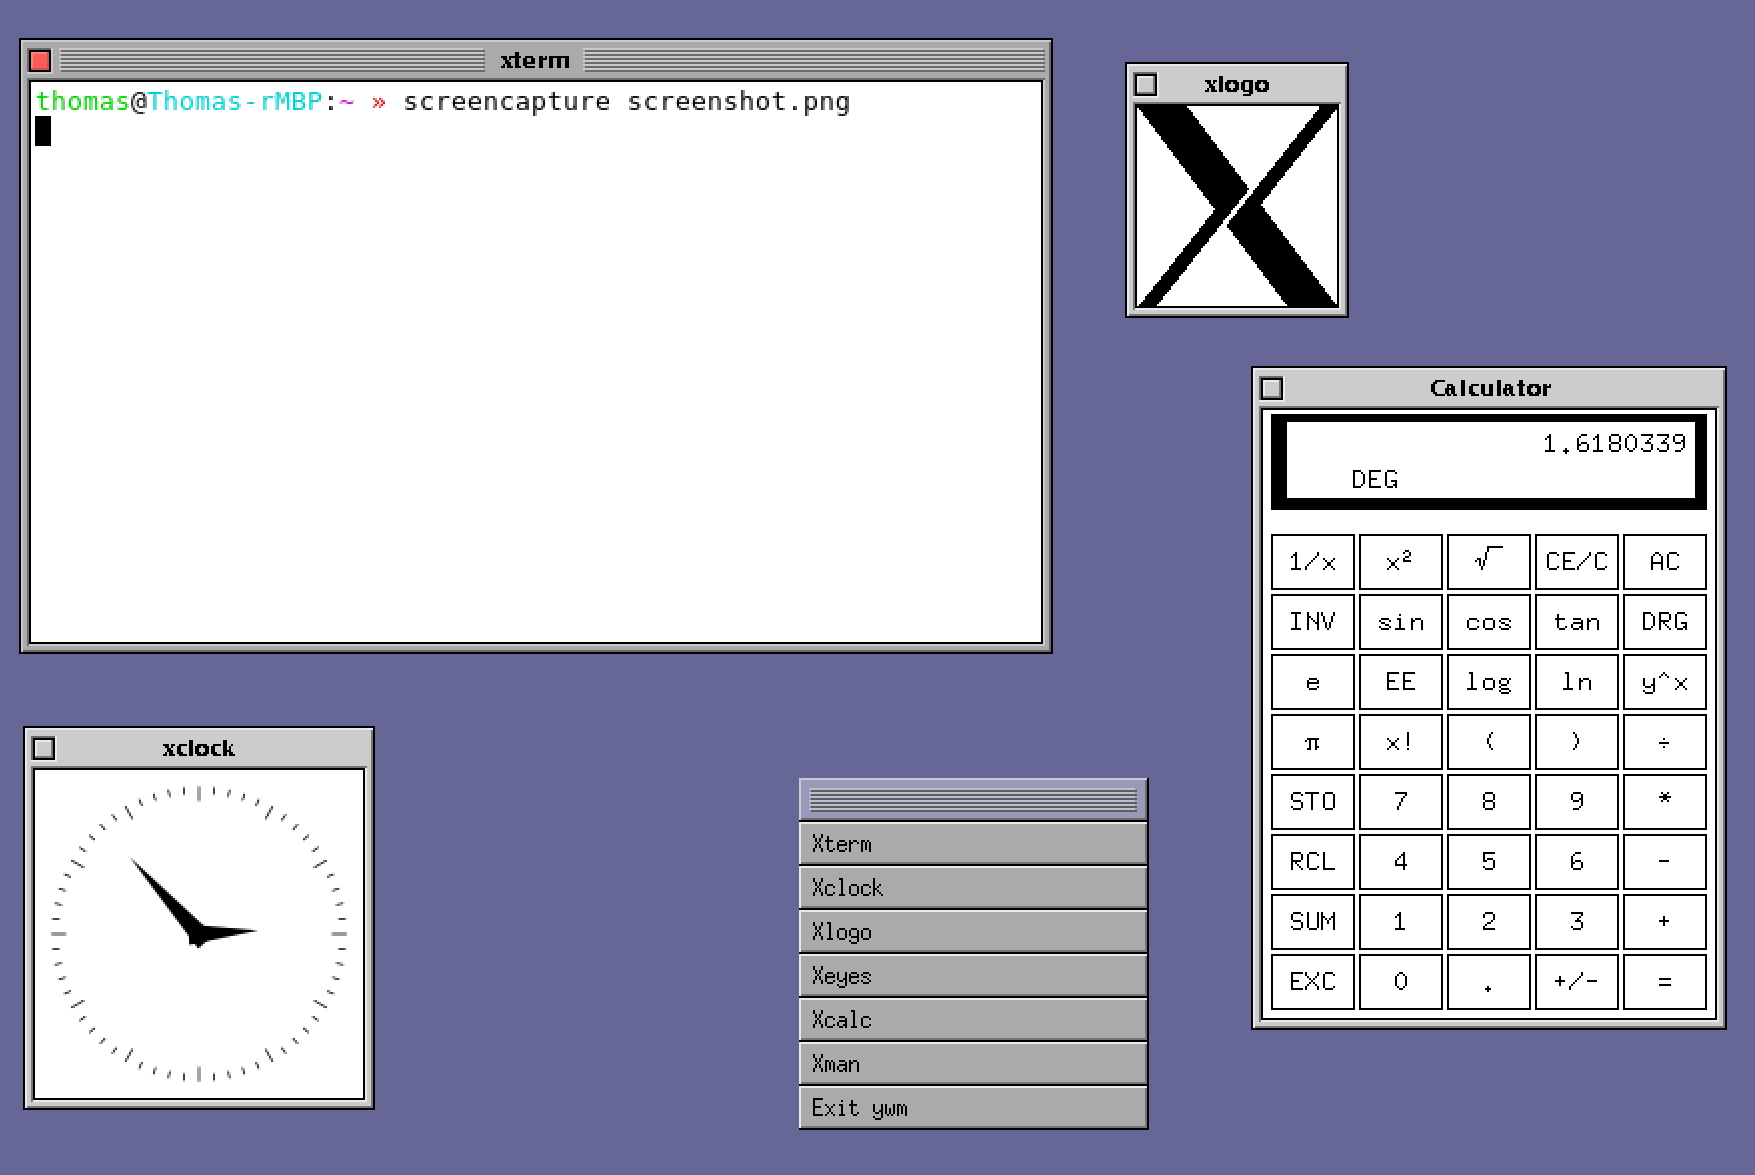
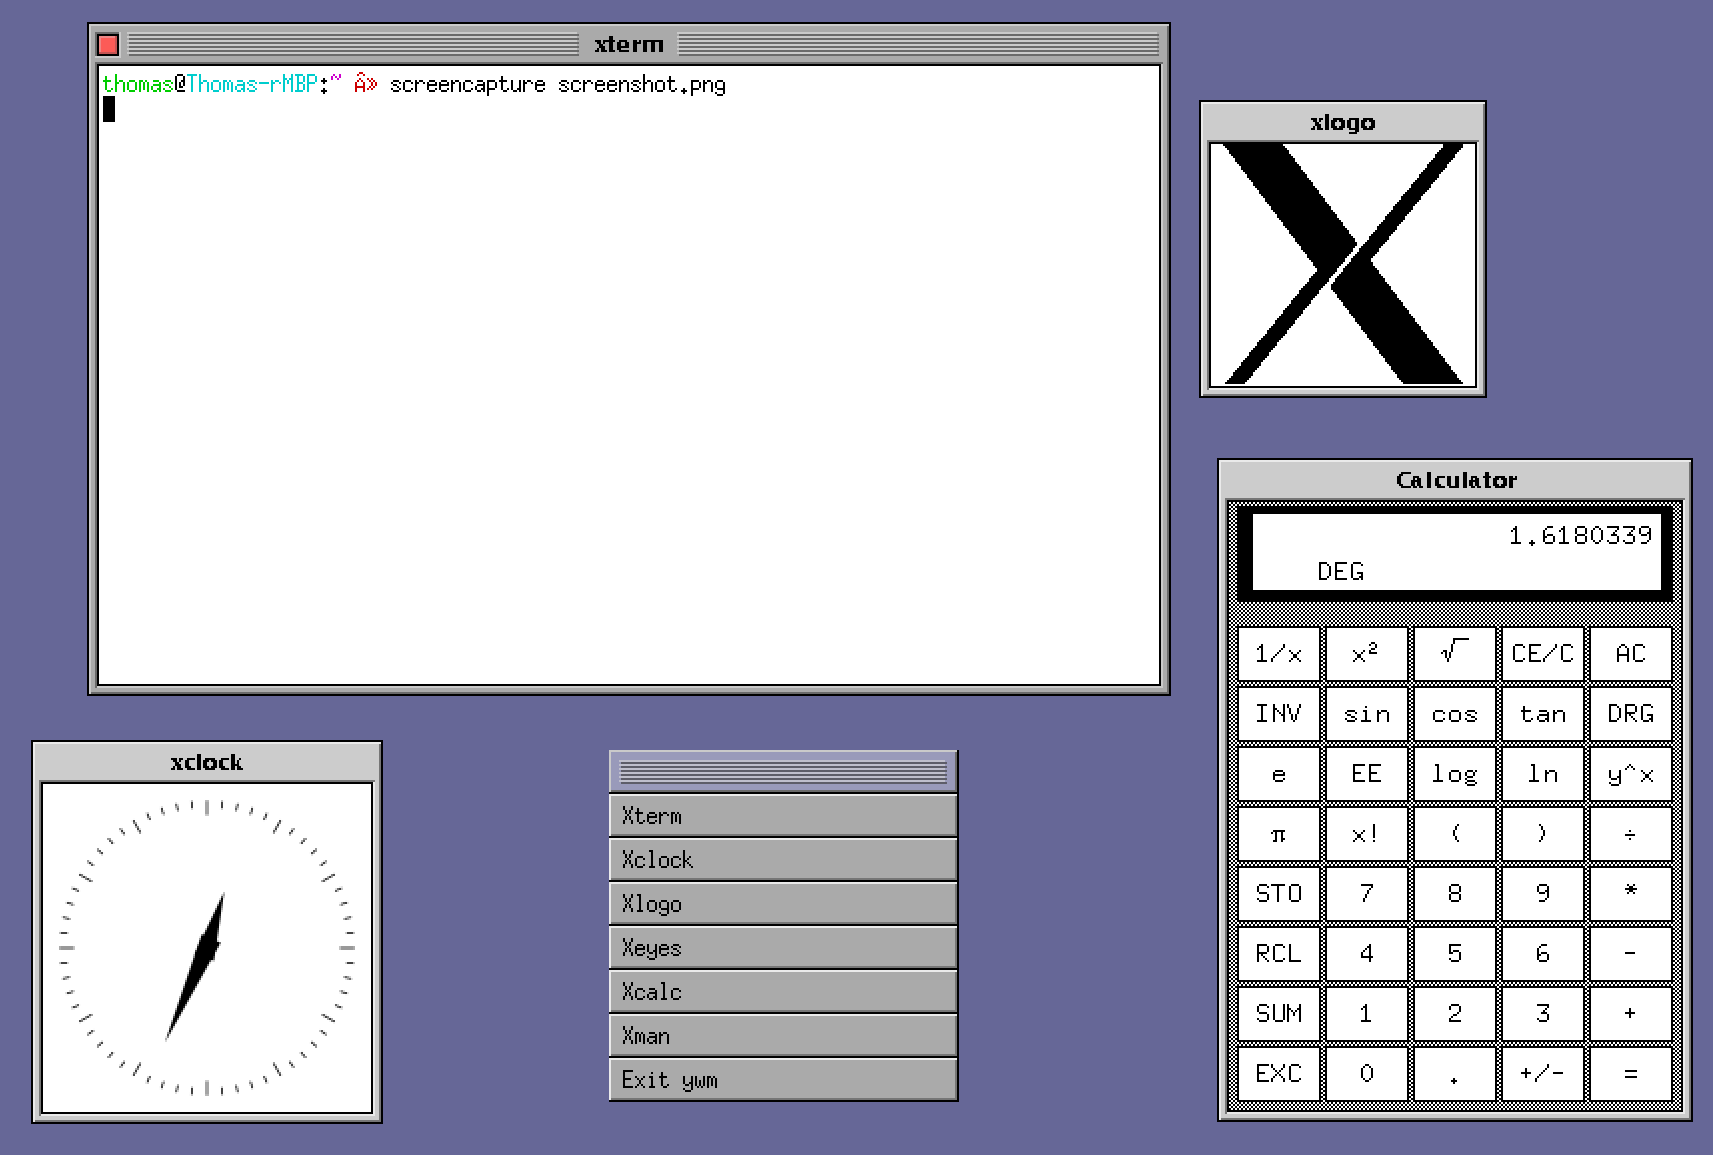
Removed shade button

diff --git a/ywm.c b/ywm.c
@@ -110,31 +110,6 @@ void draw_close_button(Client *client, Rect initial_window)
   }
 }
 
-void draw_shade_button(Client *client, Rect initial_window)
-{	
-  XMoveWindow(dpy, client->shade_button, initial_window.width - 16, initial_window.y + 4);
-  if (client == focused_client) {
-    XSetWindowBackground(dpy, client->shade_button, create_color(BLUE).pixel);
-    XClearWindow(dpy, client->shade_button);
-    XDrawLine(dpy, client->shade_button, focused_dark_grey_gc, 0, 0, 12, 0);
-    XDrawLine(dpy, client->shade_button, focused_dark_grey_gc, 0, 0, 0, 12);
-    XDrawLine(dpy, client->shade_button, focused_light_grey_gc, 0, 12, 12, 12);
-    XDrawLine(dpy, client->shade_button, focused_light_grey_gc, 12, 12, 12, 0);
-		
-    XDrawLine(dpy, client->shade_button, black_gc, 1, 5, 11, 5);
-    XDrawLine(dpy, client->shade_button, black_gc, 1, 7, 11, 7);
-		
-    XDrawLine(dpy, client->shade_button, black_gc, 1, 1, 11, 1);
-    XDrawLine(dpy, client->shade_button, black_gc, 1, 1, 1, 11);
-    XDrawLine(dpy, client->shade_button, black_gc, 1, 11, 11, 11);
-    XDrawLine(dpy, client->shade_button, black_gc, 11, 11, 11, 1);
-  }
-  else {
-    XSetWindowBackground(dpy, client->shade_button, create_color(UNFOCUSED_FRAME_COLOR).pixel);
-    XClearWindow(dpy, client->shade_button);
-  }
-}
-
 void draw_window_titlebar(Client *client, Rect initial_window) 
 { 	
   int yoffset = 4;
@@ -160,7 +135,7 @@ void draw_window_titlebar(Client *client, Rect initial_window)
     if (client == focused_client) {
       int left_xend_light = titlex - 10;
       int right_xstart_light = titlex + title_width + 7;
-      int right_xend_light = initial_window.width - 23;
+      int right_xend_light = initial_window.width - 7;
 
       int left_xend_dark = left_xend_light + 1;
       int right_xstart_dark = right_xstart_light + 1;
@@ -240,7 +215,6 @@ void redraw(Client *client)
   Rect initial_window = { .x = x, .y = y, .width = width, .height = height};
   draw_window_titlebar(client, initial_window);
   draw_close_button(client, initial_window);
-  draw_shade_button(client, initial_window);
 }
 
 Window create_titlebar_button(Window frame, int x, int y, int w, int h)
@@ -268,7 +242,6 @@ void frame(Window root, Window win)
                                      0xaaaaaa);
 		
   Window close_button = create_titlebar_button(frame, attrs.x + 3, attrs.y + 4, 13, 13);
-  Window shade_button = create_titlebar_button(frame, attrs.width - 16, attrs.y + 4, 13, 13);
 			
   XSelectInput(
                dpy,
@@ -283,7 +256,6 @@ void frame(Window root, Window win)
   client->client = win;
   client->frame = frame;
   client->close_button = close_button;
-  client->shade_button = shade_button;
   // client->xftdraw = XftDrawCreate(dpy, (Drawable) client->frame, DefaultVisual(dpy, DefaultScreen(dpy)), DefaultColormap(dpy, DefaultScreen(dpy)));
 	 
   XFetchName(dpy, win, &client->title);
@@ -293,7 +265,6 @@ void frame(Window root, Window win)
   fflush(stdout);
   XMapWindow(dpy, frame);
   XMapWindow(dpy, close_button);
-  XMapWindow(dpy, shade_button);
 }
 
 void unframe(Window win) 
@@ -305,7 +276,6 @@ void unframe(Window win)
     XRemoveFromSaveSet(dpy, client->client);
 	
     XUnmapWindow(dpy, client->close_button);
-    XUnmapWindow(dpy, client->shade_button);
     XUnmapWindow(dpy, client->frame);
   }
 }

diff --git a/util.c b/util.c
@@ -88,8 +88,6 @@ Client* find_client_by_type(Window win, int type)
       return client;
     } else if (type == CLOSE_BTN && client->close_button == win) {
       return client;
-    } else if (type == SHADE_BTN && client->shade_button == win) {
-      return client;
     }
 		
     curr = curr->next;
@@ -104,7 +102,7 @@ Client* find_client(Window win)
   while (curr != NULL) {
     client = (Client *)curr->data;		
 		
-    if (client->frame == win || client->client == win || client->close_button == win || client->shade_button == win) {
+    if (client->frame == win || client->client == win || client->close_button == win) {
       return client;
     }
 		
@@ -122,7 +120,6 @@ void remove_client(Client* client) {
   }
 	
   XDestroyWindow(dpy, client->close_button);
-  XDestroyWindow(dpy, client->shade_button);	
   XDestroyWindow(dpy, client->frame);
 	
   if (client->title != NULL) {
@@ -176,7 +173,7 @@ int snap_window_bottom(int y)
 
 void print_client(Client* c)
 {
-  printf("Client {\n\tclient = %#lx,\n\tframe = %#lx,\n\tclose_button = %#lx,\n\tshade_button = %#lx\n}\n", c->client, c->frame, c->close_button, c->shade_button);	
+  printf("Client {\n\tclient = %#lx,\n\tframe = %#lx,\n\tclose_button = %#lx,\n}\n", c->client, c->frame, c->close_button);	
   fflush(stdout);
 }
 

diff --git a/client.h b/client.h
@@ -15,7 +15,6 @@ typedef struct {
 typedef struct {
   char *title;
   Window close_button;
-  Window shade_button;
   Window client;
   Window frame;
   // XftDraw *xftdraw;
